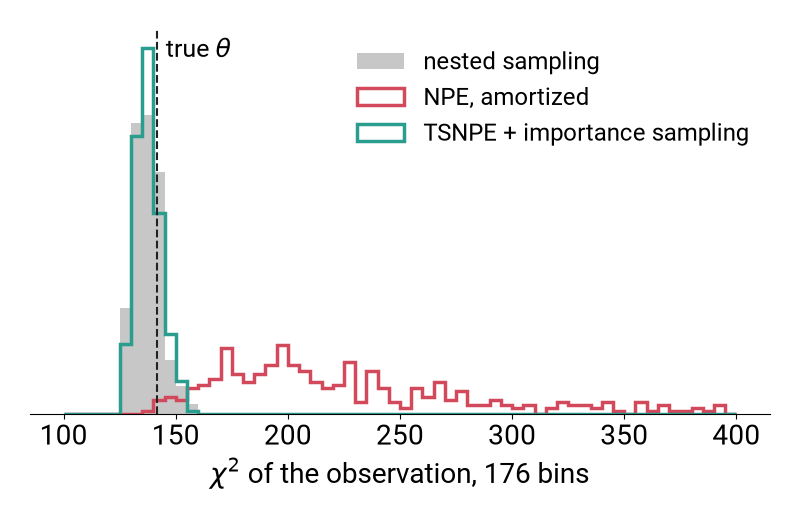
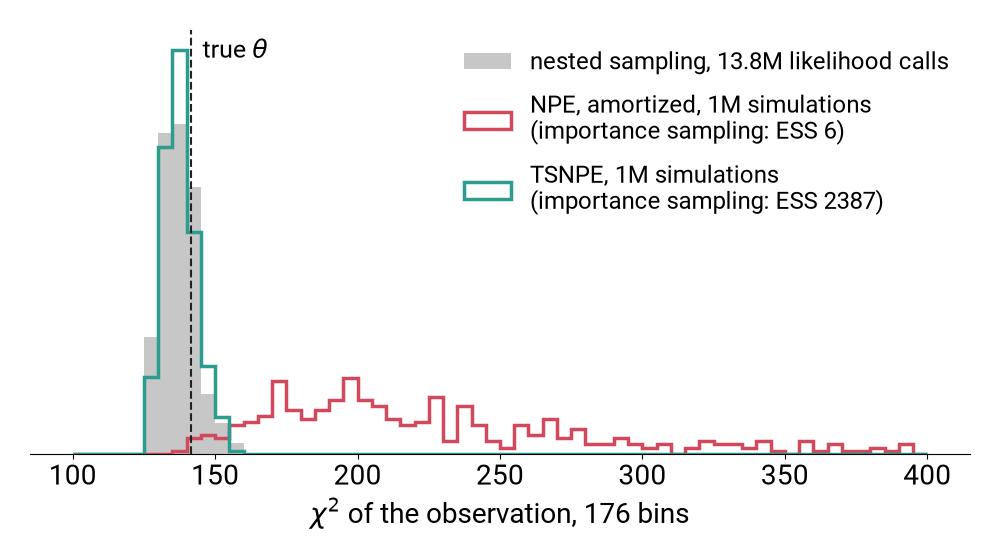
Backup slides: full 30x30 corner, and a posterior predictive check with fit quality; prose moved to notes

Changed region(s): [[0.0312, 0.0615, 0.9688, 0.9538], [0.4375, 0.0923, 0.9688, 0.4]]

diff --git a/tools/t30_figures.py b/tools/t30_figures.py
@@ -1,6 +1,6 @@
 """Slide figures for the 30-parameter toy benchmark (backup slides), from the runs of toy_tsnpe.py on alan.
 
-    python tools/t30_figures.py   # -> figures/t30-corner.png, figures/t30-chi2.png
+    python tools/t30_figures.py   # -> figures/t30-corner.png, t30-corner-full.png, t30-chi2.png
 
 Reads .render/data/t30/ (fetched from /scratch/.../exomints/t30/): nested-s1-n2000/nested.npz (reference),
 amortised/posterior-0.npz (amortised NPE, 1M simulations), tsnpe/is-4.npz (TSNPE, 5 rounds of 200k, reweighted by
@@ -75,6 +75,53 @@ def corner_fig():
     plt.close(fig)
 
 
+def corner_full():
+    """All 30 parameters. Axes zoomed where the reference posterior is narrow, prior range elsewhere."""
+    import corner
+    data = sets()
+    ref = data[0][1]
+    rng_ = []
+    for i in range(len(T.NAMES)):
+        lo, hi = np.percentile(ref[:, i], [0.5, 99.5])
+        if hi - lo < 0.5 * (T.UPPER[i] - T.LOWER[i]):
+            lo = min(np.percentile(s[:, i], 0.5) for _, s, _ in data)
+            hi = max(np.percentile(s[:, i], 99.5) for _, s, _ in data)
+            pad = 0.1 * (hi - lo)
+            rng_.append((max(lo - pad, T.LOWER[i]), min(hi + pad, T.UPPER[i])))
+        else:
+            rng_.append((T.LOWER[i], T.UPPER[i]))
+    import re
+    sub = lambda t: re.sub(r"(\d)", r"$_{\1}$", t)  # digits as subscripts, with mathtext (Roboto has no glyphs)
+    short = {"log_g": "log g", "R_p": "$R_p$", "T_0": "$T_0$", "log_Pc": "log $P_c$", "log_tau_c": r"log $\tau_c$",
+             "alpha_c": r"$\alpha_c$"}
+    labels = [short.get(n, f"$r_{n[2:]}$" if n.startswith("r_") else sub(n[4:]) if n.startswith("log_") else n)
+              for n in T.NAMES]  # r_3 -> r_3, log_H2O -> H_2O
+    plt.rcParams.update({"font.size": 14, "font.family": "Roboto"})
+    kw = dict(bins=25, smooth=1.2, plot_datapoints=False, plot_density=False, levels=(0.68, 0.95), range=rng_,
+              labels=labels, label_kwargs={"fontsize": 17}, max_n_ticks=0, labelpad=0.2)
+    s0 = data[0][1]
+    fig = corner.corner(s0, color=NS_COL, fill_contours=True, contour_kwargs={"linewidths": 0},
+                        hist_kwargs={"lw": 0, "density": True, "histtype": "stepfilled", "alpha": 0.45}, **kw)
+    for lab, s, c in data[1:]:
+        corner.corner(s, color=c, fig=fig, fill_contours=False, no_fill_contours=True,
+                      contour_kwargs={"linewidths": 0.9}, hist_kwargs={"lw": 1.2, "density": True}, **kw)
+    n = len(T.NAMES)
+    for k in range(n):
+        ax = fig.axes[k * n + k]
+        ax.relim()
+        ax.autoscale(axis="y")
+        ax.set_ylim(0, ax.get_ylim()[1] * 1.05)
+    corner.overplot_lines(fig, T.THETA_STAR, color="#777", lw=0.4)
+    fig.set_size_inches(22, 22)
+    handles = [plt.matplotlib.patches.Patch(color=NS_COL, alpha=0.6, label="nested sampling"),
+               plt.Line2D([], [], color=NPE_COL, lw=4, label="NPE, amortized"),
+               plt.Line2D([], [], color=TS_COL, lw=4, label="TSNPE + importance sampling"),
+               plt.Line2D([], [], color="#222", lw=2, label=r"true $\theta$")]
+    fig.legend(handles=handles, loc="upper right", bbox_to_anchor=(0.95, 0.95), frameon=False, fontsize=40)
+    fig.savefig("figures/t30-corner-full.png", dpi=60, bbox_inches="tight")
+    plt.close(fig)
+
+
 def chi2_fig(n=400):
     """χ² of the observation against posterior predictive draws, one histogram per method."""
     x = np.load(D + "xobs.npz")["x_obs"]
@@ -82,9 +129,13 @@ def chi2_fig(n=400):
     rng = np.random.default_rng(0)
     plt.rcParams.update({"font.size": 20, "font.family": "Roboto", "axes.spines.top": False,
                          "axes.spines.right": False})
-    fig, ax = plt.subplots(figsize=(8, 5.2), dpi=100)
+    fig, ax = plt.subplots(figsize=(10, 5.6), dpi=100)
     bins = np.linspace(100, 400, 61)
+    legend = {"nested sampling": "nested sampling, 13.8M likelihood calls",
+              "NPE, amortized": "NPE, amortized, 1M simulations\n(importance sampling: ESS 6)",
+              "TSNPE + importance sampling": "TSNPE, 1M simulations\n(importance sampling: ESS 2387)"}
     for lab, s, c in sets():
+        lab = legend[lab]
         th = s[rng.choice(len(s), n, replace=False)]
         chi = np.array([np.sum(((x - sim.clean(t)) / SIGMA) ** 2) for t in th])
         print(f"{lab}: median chi2 {np.median(chi):.0f}")
@@ -98,12 +149,76 @@ def chi2_fig(n=400):
     ax.set_xlabel(r"$\chi^2$ of the observation, 176 bins")
     ax.set_yticks([])
     ax.spines["left"].set_visible(False)
-    ax.legend(frameon=False, fontsize=17, loc="upper right")
+    ax.legend(frameon=False, fontsize=17, loc="upper right", labelspacing=0.8)
     fig.tight_layout()
     fig.savefig("figures/t30-chi2.png", dpi=100)
     plt.close(fig)
 
 
+def ppc_fig(n=300):
+    """Posterior predictive check (spectrum, residuals per method) and χ² of the observation, one figure."""
+    x = np.load(D + "xobs.npz")["x_obs"]
+    sim = T.Simulator(noisy=False)
+    rng = np.random.default_rng(0)
+    data = sets()
+    preds = [np.array([sim.clean(t) for t in s[rng.choice(len(s), n, replace=False)]]) for _, s, _ in data]
+    legend = ["nested sampling\n13.8M likelihood calls", "NPE, amortized\n1M simulations, ESS 6",
+              "TSNPE\n1M simulations, ESS 2387"]
+    plt.rcParams.update({"font.size": 18, "font.family": "Roboto", "axes.spines.top": False,
+                         "axes.spines.right": False})
+    fig = plt.figure(figsize=(16, 8.5), dpi=100)
+    gs = fig.add_gridspec(4, 2, width_ratios=[2.6, 1], height_ratios=[2.2, 1, 1, 1], hspace=0.12, wspace=0.12)
+    ax = fig.add_subplot(gs[0, 0])
+    wl = T.WL_OUT
+    for (lab, _, c), f in zip(data, preds):
+        rep = f + SIGMA * rng.standard_normal(f.shape)
+        lo, hi = np.quantile(rep, [0.025, 0.975], axis=0)
+        ax.fill_between(wl, lo, hi, color=c, alpha=0.35 if c == NS_COL else 0.18, lw=0)
+        ax.plot(wl, np.median(f, 0), color=c, lw=1.6)
+    ax.errorbar(wl, x, yerr=SIGMA, fmt="o", ms=3, color="#222", elinewidth=0.8, zorder=5)
+    ax.set_ylabel("Flux")
+    ax.set_yticks([])
+    ax.set_title("Posterior predictive check", loc="left", fontsize=22)
+    plt.setp(ax.get_xticklabels(), visible=False)
+    for k, ((lab, _, c), f) in enumerate(zip(data, preds)):
+        axr = fig.add_subplot(gs[1 + k, 0], sharex=ax)
+        r = (x[None, :] - f) / SIGMA
+        lo, med, hi = np.quantile(r, [0.16, 0.5, 0.84], axis=0)
+        axr.axhspan(-2, 2, color="#eeeeee", lw=0)
+        axr.fill_between(wl, lo, hi, color=c, alpha=0.4, lw=0)
+        axr.plot(wl, med, color=c if c != NS_COL else "#666", lw=1.0)
+        axr.axhline(0, color="#999", lw=0.8)
+        axr.set_ylim(-4.5, 4.5)
+        axr.set_yticks([-3, 0, 3])
+        axr.set_ylabel("Resid. [σ]" if k == 1 else "", fontsize=16)
+        if k < 2:
+            plt.setp(axr.get_xticklabels(), visible=False)
+    axr.set_xlabel("Wavelength [μm]")
+    axc = fig.add_subplot(gs[:, 1])
+    bins = np.linspace(100, 400, 61)
+    for (lab, _, c), f, leg in zip(data, preds, legend):
+        chi = np.sum(((x - f) / SIGMA) ** 2, 1)
+        if c == NS_COL:
+            axc.hist(chi, bins, color=c, alpha=0.55, density=True, label=leg, orientation="horizontal")
+        else:
+            axc.hist(chi, bins, histtype="step", lw=2.5, color=c, density=True, label=leg, orientation="horizontal")
+    chi_true = np.sum(((x - sim.clean(T.THETA_STAR)) / SIGMA) ** 2)
+    axc.axhline(chi_true, color="#222", lw=1.5, ls="--")
+    axc.text(0.98, chi_true + 4, r"true $\theta$", transform=axc.get_yaxis_transform(), ha="right", fontsize=16)
+    axc.set_ylabel(r"$\chi^2$ of the observation (176 bins)")
+    axc.yaxis.set_label_position("right")
+    axc.yaxis.tick_right()
+    axc.spines["right"].set_visible(True)
+    axc.spines["left"].set_visible(False)
+    axc.set_xticks([])
+    axc.set_title("Fit quality", loc="left", fontsize=22)
+    axc.legend(frameon=False, fontsize=15, loc="upper right", labelspacing=1.0)
+    fig.savefig("figures/t30-ppc.png", dpi=100, bbox_inches="tight")
+    plt.close(fig)
+
+
 if __name__ == "__main__":
     corner_fig()
+    corner_full()
     chi2_fig()
+    ppc_fig()

diff --git a/todo.md b/todo.md
@@ -80,7 +80,7 @@ This file is the state of the project. Read it first at the start of every sessi
 - **Reference only:** `../2026 - SBI in HEP/` (SBI blueprint, 2023); the 2019 talks (Oxford, GRAPPA, DESY) list Bayesian model comparison among the uses of NRE.
 
 ## Pending
-- [x] **T7.1.** Backup slides 44-45 (after the closing slide): Gilles' overnight 30-parameter benchmark (`tools/toy_exo30.py`, `tools/toy_tsnpe.py`, `tools/plot_t30.py`; alan `/scratch/.../t30/`). Slide figures by `tools/t30_figures.py` (data fetched to `.render/data/t30/`): NS 2000 live (13.8M calls, 3.4 h/64 cores, log Z -102.67 ± 0.24), amortized NPE 1M sims (median chi2 218, IS ESS 6), TSNPE 5x200k + IS (chi2 137, ESS 2387, log Z -103.29, stable over 4 runs). OPEN: NS and TSNPE+IS disagree on a low-abundance tail (6% vs 19% below log H2O = -3.3) and on log Z by 0.6; NS 500 live gives -101.68. A long MCMC would arbitrate (not run).
+- [x] **T7.1.** Backup slides 44-45 (after the closing slide): Gilles' overnight 30-parameter benchmark (`tools/toy_exo30.py`, `tools/toy_tsnpe.py`, `tools/plot_t30.py`; alan `/scratch/.../t30/`). Slides: full 30x30 corner (`t30-corner-full.png`) and PPC + chi2 (`t30-ppc.png`), no prose, numbers in legends; figures by `tools/t30_figures.py` (data in `.render/data/t30/`): NS 2000 live (13.8M calls, 3.4 h/64 cores, log Z -102.67 ± 0.24), amortized NPE 1M sims (median chi2 218, IS ESS 6), TSNPE 5x200k + IS (chi2 137, ESS 2387, log Z -103.29, stable over 4 runs). OPEN: NS and TSNPE+IS disagree on a low-abundance tail (6% vs 19% below log H2O = -3.3) and on log Z by 0.6; NS 500 live gives -101.68. A long MCMC would arbitrate (not run).
 - [x] **T6.2.** Error bars on slide 40: 6 runs per estimate (seed 0 + 5 repetitions, alan arrays 40195/40196/40197; results fetched to `.render/data/toy-mc/rep/`), mean ± 1 std, runs as faint dots (`toy_mc.py figures`). Cloudy planet: NS +20.00 ± 0.30, IS +20.03 ± 0.01, classifier +7.46 ± 0.66 (saturated, unstable). Clear: NS -1.14 ± 0.29, IS -1.16 ± 0.003, classifier -1.30 ± 0.07. IS is ~30x more reproducible than NS, despite retraining.
 - [x] **T6.3.** Savage-Dickey check (no slide change): deep-cloud interval log Pc in [1.3, 1.5] is indistinguishable from clear (< 0.07 sigma); B(clear:cloudy) = P(interval | x) / 0.067. Clear planet: -1.17 (NS samples), -1.18 (IS), -1.25 (NPE) vs -1.11 from evidences. Cloudy planet: no samples in the interval, only log B > 5.6-6.1; NPE alone gives a wrong finite +5.25 from tail leakage.
 - [x] **T6.1.** FMPE on the toy (`tools/toy_fmpe.py`, alan scripts `.render/alan/train_fmpe.sh`; local results in `.render/data/fmpe/`). Same embedding/pairs/noise as NPE; residual vector field, RK4 64 steps, exact divergence. Finding (2026-11-09): the vector field memorizes the training pairs (valid loss rises after ~5 epochs), so early stopping on validation; early-stopped posteriors are 1.5-2x wider than MCMC, IS efficiency 0.000-0.012 (NPE 0.57), log Z still matches NS (-55.8 vs -55.90). 500k: valid 2.61; width 128: 2.52; 2M pairs: 2.49. 10M pairs: the simulator costs ~58 ms/spectrum (not 4 ms), so 10M = ~160 CPU-h; first attempt (one 32-CPU job) cancelled; now sharded: alan array 40161 (20 x 500k, `.render/alan/sim_shards.sh`, OMP_NUM_THREADS=1) -> 40162 train, `/scratch/.../toy-10m/pairs-*.npz`. Possible talk message: FMPE is more flexible but needs more simulations. RESULT 10M (2026-11-09): no overfitting (best valid 2.32 at last epoch); posterior widths within ~8% of MCMC and means on MCMC (closer than NPE); IS efficiency 0.108 (NPE 0.57), log Z -55.71. ODE_STEPS=256: IS efficiency 0.087, log Z -55.77, so not solver error; FMPE posterior is slightly too narrow (light tails), which IS punishes; NPE (10-20% overdispersed) is the better proposal (0.57). FMPE at 500k (sweep of LR/width/dropout; frozen NPE embedding, FiLM, EMA, short schedule; `.render/data/fmpe/500k-E*`): best runs fix the widths but keep a 0.5-0.7 sigma bias along the T_int-R_p degeneracy (IS eff 0.05-0.10); NPE 10M also trained (`.render/data/npe-10m/`). DECISION (Gilles, 2026-11-09): no FMPE corner slide; slide removed.

diff --git a/talk.md b/talk.md
@@ -895,15 +895,13 @@ class: middle
 
 ## Backup: 30 parameters
 
-A free retrieval from 0.8 to 5 μm, with a 10-node temperature profile, 15 molecules and a non-grey cloud. Both networks get 1M simulations; TSNPE spends them in 5 rounds, around the observation.
+.center.width-70[![](figures/t30-corner-full.png)]
 
-.center.width-60[![](figures/t30-corner.png)]
-
-.footnote[TSNPE: truncated sequential NPE, [Deistler et al](https://arxiv.org/abs/2210.04815), NeurIPS 2022.]
+.footnote[TSNPE: truncated sequential NPE, [Deistler et al](https://arxiv.org/abs/2210.04815), NeurIPS 2022. Free retrieval, 0.8 to 5 μm.]
 
 ???
 
-A harder version of our toy, closer to a real free retrieval. Thirty parameters, many of them barely constrained, like the trace molecules.
+A harder version of our toy, closer to a real free retrieval. Thirty parameters: a temperature profile with ten nodes, fifteen molecules and a non-grey cloud, from 0.8 to 5 microns. Many are barely constrained, like the trace molecules. Each network gets one million simulations. TSNPE spends them in five rounds, around the observation.
 
 Amortized NPE gets the broad picture, but it is off on the temperature and on the trace species. TSNPE trains on the observation in rounds, and each round simulates only where the posterior is. With importance sampling on top, it follows nested sampling closely.
 
@@ -913,17 +911,13 @@ One honest caveat. TSNPE puts more mass than nested sampling in a tail at low ab
 
 class: middle
 
-## Backup: 30 parameters, fit and cost
+## Backup: 30 parameters, posterior predictive check
 
-.center.width-70[![](figures/t30-chi2.png)]
-
-TSNPE fits as well as nested sampling, with a median $\chi^2$ of 137 against 218 for amortized NPE. Importance sampling works for TSNPE, with an effective sample size of 2387 out of 50,000, and fails for amortized NPE, with 6.
-
-Nested sampling took 13.8M likelihood calls, 3.4 hours on 64 cores. Each network used 1M simulations.
+.center.width-100[![](figures/t30-ppc.png)]
 
 ???
 
-How well does each posterior fit the data? For each method, we simulate from the posterior and compute the chi-square of the observation. TSNPE and nested sampling sit where the truth sits. Amortized NPE fits worse.
+How well does each posterior fit the data? We simulate from each posterior and compare with the observation. The residuals of amortized NPE spread at short wavelengths, and its chi-square is far too high. TSNPE and nested sampling sit where the truth sits.
 
 Importance sampling tells the same story. It works for TSNPE, and collapses for amortized NPE.
 
